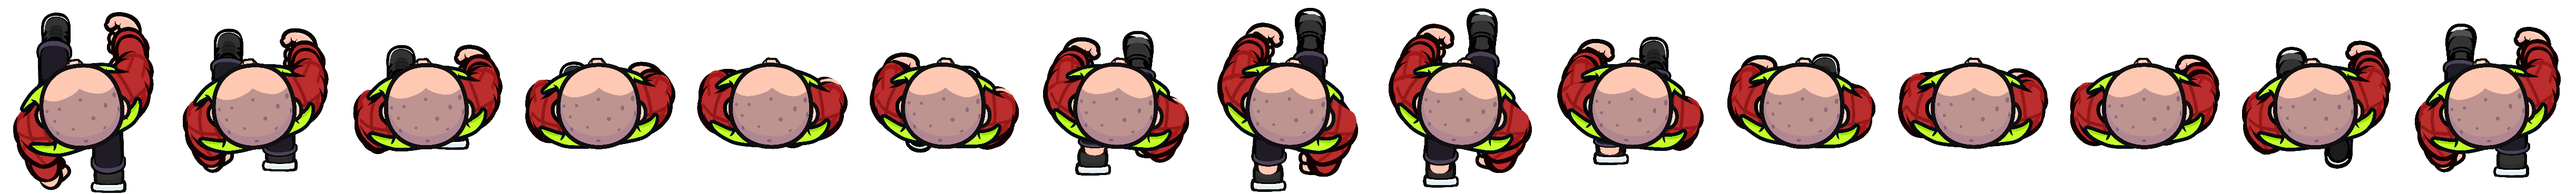
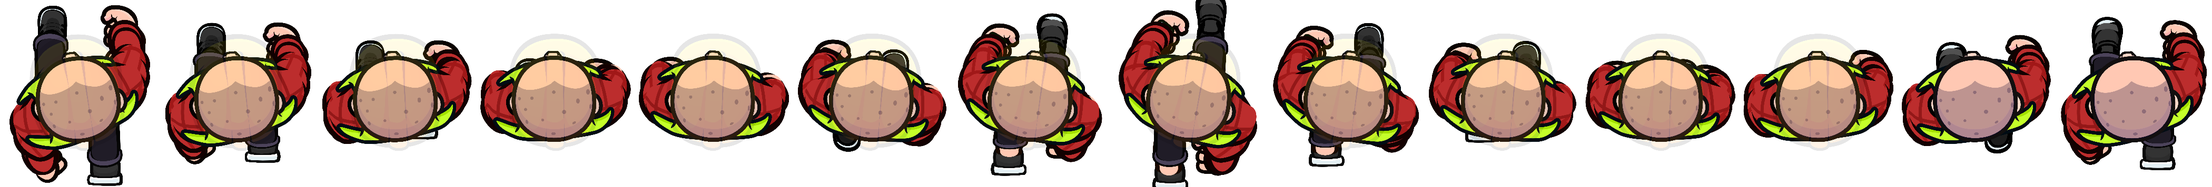
feat: generate spritesheets for man-base-variant

diff --git a/src/scripts/npcs-meta-new.js b/src/scripts/npcs-meta-new.js
@@ -1,4 +1,6 @@
 // 🚧 remove -new suffix post-migration
+// 🚧 need frame offset for walk (should start from idle)
+
 /// <reference path="./deps.d.ts"/>
 /**
  * Using `static/assets/npc/*` create a single JSON:
@@ -15,7 +17,7 @@ import childProcess from 'child_process';
 
 import { keys } from '../projects/service/generic';
 import { writeAsJson } from '../projects/service/file';
-import { computeNpcScale, computeSpritesheetCss, computeSpritesheetCssNew } from '../projects/service/npc';
+import { computeNpcScale, computeSpritesheetCssNew } from '../projects/service/npc';
 
 const staticAssetsDir = path.resolve(__dirname, '../../static/assets');
 const inputDir = path.resolve(staticAssetsDir, 'npc');
@@ -35,11 +37,14 @@ const outputJsonFilepath = path.resolve(outputDir, 'npcs-meta-new.json');
 const npcClassConfig = {
     'man-base-variant': {
         anim: {
-            // 🚧 generate spritesheets
-            // idle: { frameCount: 15, speed: 0, totalDist: 0 },
-            // lie: { frameCount: 1, speed: 0, totalDist: 0 },
-            // sit: { frameCount: 1, speed: 0, totalDist: 0 },
-            walk: { frameCount: 15, speed: 70 /** 🚧 */, totalDist: 300 },
+            idle: { frameCount: 14, speed: 0, totalDist: 0 },
+            lie: { frameCount: 1, speed: 0, totalDist: 0 },
+            sit: { frameCount: 1, speed: 0, totalDist: 0 },
+            walk: {
+                frameCount: 14,
+                speed: 70 ,// 🚧 justify
+                totalDist: 300, // 🚧 justify
+            },
         },
         radius: 650 * 0.2, // Export scale is 20%
         offsetDegrees: 270, // -90
@@ -54,11 +59,11 @@ const outputJson = keys(npcClassConfig).reduce(
         
         const animLookup = Object.keys(config.anim).reduce((agg, animKey) => {
             const animConfig = config.anim[animKey];
-            // 🚧 We removed leading / (which was web-asset-specific)
-            const pathPng = `assets/npc/${npcClassKey}/${npcClassKey}--${animKey}.png`;
-            const pathWebp = `assets/npc/${npcClassKey}/${npcClassKey}--${animKey}.webp`;
-            // 🚧 read png and infer frame width/height
-            const [widthStr, heightStr] = childProcess.execSync(`identify -ping -format '%w %h' ./static/${pathPng}`).toString().split(' ');
+            // ℹ initial / useful for web-asset
+            const pathPng = `/assets/npc/${npcClassKey}/${npcClassKey}--${animKey}.png`;
+            const pathWebp = `/assets/npc/${npcClassKey}/${npcClassKey}--${animKey}.webp`;
+            // ℹ read png and infer frame width/height
+            const [widthStr, heightStr] = childProcess.execSync(`identify -ping -format '%w %h' ./static${pathPng}`).toString().split(' ');
             agg[animKey] = {
                 aabb: {
                     x: 0,

diff --git a/src/scripts/minify-pngs.js b/src/scripts/minify-pngs.js
@@ -11,7 +11,7 @@
  * - yarn minify-pngs static/assets/symbol
  *   > maybe better to do `yarn simplify-pngs static/assets/symbol`
  * - yarn minify-pngs static/assets/npc/first-human-npc
- * - yarn minify-pngs media/NPC/man-base-variant webp
+ * - yarn minify-pngs static/assets/npc/man-base-variant webp
  */
 import fs from 'fs';
 import path from 'path';

diff --git a/docs/TODO.md b/docs/TODO.md
@@ -51,9 +51,12 @@
       - made mistake whilst translating bones for each keyframe (laborious)
   - ℹ continue from `top_down_man_base.edit.2.scml`
   - ✅ script npcs-meta-new.js
-  - 🚧 generate spritesheets for idle/lie/sit/walk
-  - get walk/sit/idle working
-  - ...
+  - ✅ generate spritesheets for ✅ idle ✅ lie ✅ sit ✅ walk
+    - use symmetric `set to animation preset` source rect and check inferred
+      > e.g. idle -830,-480 -> +829,+479
+    - `yarn minify-pngs static/assets/npc/man-base-variant webp`
+  - 🚧 get walk/sit/idle working
+    - need background-position offset for walk so starts from idle
 
 - more `ui do` points
 - more `orient-{deg}` tags
